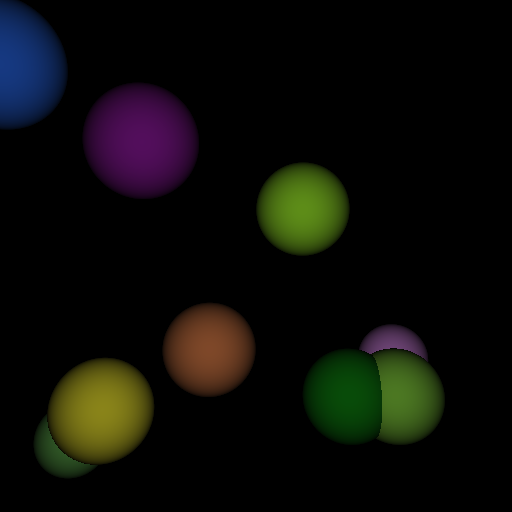
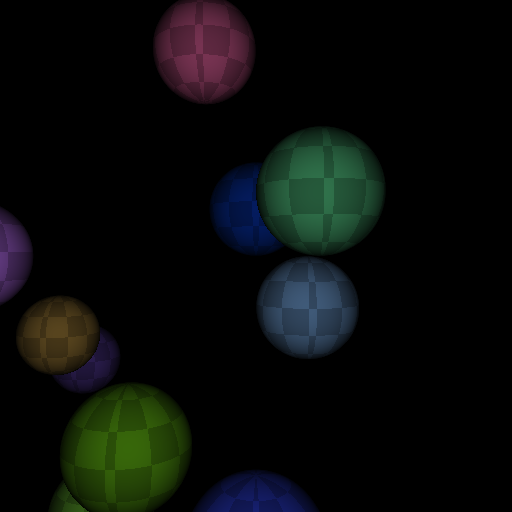
First pass at texture mapping

diff --git a/src/main.rs b/src/main.rs
@@ -4,17 +4,21 @@ extern crate image;
 use image::{ImageBuffer, Rgb};
 
 mod color;
-mod vec3;
 mod matrix;
-mod ray;
 mod object;
+mod ray;
 mod sphere;
+mod texture_checkered;
+mod texture;
+mod vec3;
 
 use color::Color;
 use vec3::Vec3;
 use ray::Ray;
 use sphere::Sphere;
 use object::{Object,MaterialType};
+use texture_checkered::TextureCheckered;
+use texture::Texture;
 
 const RESOLUTION: usize = 512;
 const CAMERA_POSITION: Vec3 = Vec3 { x: 0.0, y: 0.0, z: 0.0 };
@@ -86,7 +90,8 @@ fn ray_trace() -> Frame {
             },
             radius: 1.0,
             material_type: MaterialType::Diffuse,
-            color: Color(rand::random::<u8>(), rand::random::<u8>(), rand::random::<u8>())
+            color: Color(rand::random::<u8>(), rand::random::<u8>(), rand::random::<u8>()),
+            texture: TextureCheckered::new(),
         }))
     }
 
@@ -117,8 +122,14 @@ fn cast_ray(ray: &Ray, objs: &Vec<Box<dyn Object>>, depth: u8) -> Color {
                     
                     const MAX_DISTANCE: f32 = 60.0; // objects this far away are black
                     let distance_shade = 1.0 - intersection.distance / MAX_DISTANCE;
-                    
-                    nearest_color = &obj.color() * (distance_shade * normal_shade);
+
+                    let uv = obj.texture_coordinate(&intersection.position);
+                    let checker_color = obj.texture().color_at(uv.0, uv.1);
+                    // HACK
+                    let checker_shade = checker_color.0 as f32 / 255.0;
+
+
+                    nearest_color = &obj.color() * (checker_shade * distance_shade * normal_shade);
 
                     /*
                     match obj.material_type() {

diff --git a/src/texture_checkered.rs b/src/texture_checkered.rs
@@ -1,0 +1,45 @@
+
+use crate::color::Color;
+use crate::texture::Texture;
+
+pub struct TextureCheckered {
+    pub rows: u32,
+    pub cols: u32,
+    pub color_1: Color,
+    pub color_2: Color,
+}
+
+impl TextureCheckered {
+    pub fn new() -> Self {
+        Self {
+            rows: 2,
+            cols: 2,
+            color_1: Color(255, 255, 255),
+            color_2: Color(200, 200, 200)
+        }
+    }
+}
+
+impl Texture for TextureCheckered {
+    fn color_at(&self, u: f32, v: f32) -> Color {
+        let scaled_u = (u * self.cols as f32) as u32;
+        let u_is_base = scaled_u % 2 == 0;
+
+        let scaled_v = (v * self.cols as f32) as u32;
+        let v_is_base = scaled_v % 2 == 0;
+
+        return if u_is_base == v_is_base { self.color_1 }
+               else { self.color_2 }
+    }
+}
+
+
+#[test]
+fn test() {
+    let tex = TextureCheckered::new();
+
+    assert_eq!(tex.color_at(0.1, 0.1), Color(255, 255, 255));
+    assert_eq!(tex.color_at(0.4, 0.1), Color(200, 200, 200));
+    assert_eq!(tex.color_at(0.1, 0.4), Color(200, 200, 200));
+    assert_eq!(tex.color_at(0.4, 0.4), Color(255, 255, 255));
+}

diff --git a/src/sphere.rs b/src/sphere.rs
@@ -3,12 +3,14 @@ use crate::color::Color;
 use crate::vec3::Vec3;
 use crate::ray::Ray;
 use crate::object::{Object,MaterialType,Intersection};
+use crate::texture_checkered::TextureCheckered;
 
 pub struct Sphere {
     pub position: Vec3,
     pub radius: f32,
     pub material_type: MaterialType,
-    pub color: Color
+    pub color: Color,
+    pub texture: TextureCheckered,
 }
 
 impl Sphere {
@@ -77,6 +79,20 @@ impl Object for Sphere {
     fn color(&self) -> Color {
         self.color
     }
+
+    fn texture(&self) -> &TextureCheckered {
+        &self.texture
+    }
+
+    fn texture_coordinate(&self, point: &Vec3) -> (f32,f32) {
+        let relative_point = point - &self.position;
+
+        let latitude = (relative_point.y / self.radius).acos();
+        let longitude = (relative_point.z / relative_point.x).atan();
+
+        return (latitude, longitude);
+    }
+
 }
 
 fn solve_quadratic(a: f32, b: f32, c: f32) -> Option<(f32,f32)> {

diff --git a/src/color.rs b/src/color.rs
@@ -1,7 +1,19 @@
 
 
-#[derive(Debug, Copy, Clone)]
+#[derive(Debug, Copy, Clone, PartialEq)]
 pub struct Color(pub u8, pub u8, pub u8);
+
+impl std::ops::Mul<&Color> for &Color {
+    type Output = Color;
+    
+    fn mul(self, other: &Color) -> Self::Output {
+        Color (
+            (self.0 as f32 * other.0 as f32).round() as u8, 
+            (self.1 as f32 * other.1 as f32).round() as u8, 
+            (self.2 as f32 * other.2 as f32).round() as u8, 
+        )
+    }
+}
 
 impl std::ops::Mul<f32> for &Color {
     type Output = Color;

diff --git a/src/object.rs b/src/object.rs
@@ -2,6 +2,7 @@
 use crate::color::Color;
 use crate::ray::Ray;
 use crate::vec3::Vec3;
+use crate::texture_checkered::TextureCheckered;
 
 pub struct Intersection {
     pub distance: f32,
@@ -13,6 +14,8 @@ pub trait Object {
     fn intersection(&self, ray: &Ray) -> Option<Intersection>;
     fn material_type(&self) -> MaterialType;
     fn color(&self) -> Color;
+    fn texture(&self) -> &TextureCheckered;
+    fn texture_coordinate(&self, point: &Vec3) -> (f32,f32);
 }
 
 #[derive(Debug, Copy, Clone)]

diff --git a/src/texture.rs b/src/texture.rs
@@ -1,0 +1,6 @@
+
+use crate::color::Color;
+
+pub trait Texture {
+    fn color_at(&self, u: f32, v: f32) -> Color;
+}
